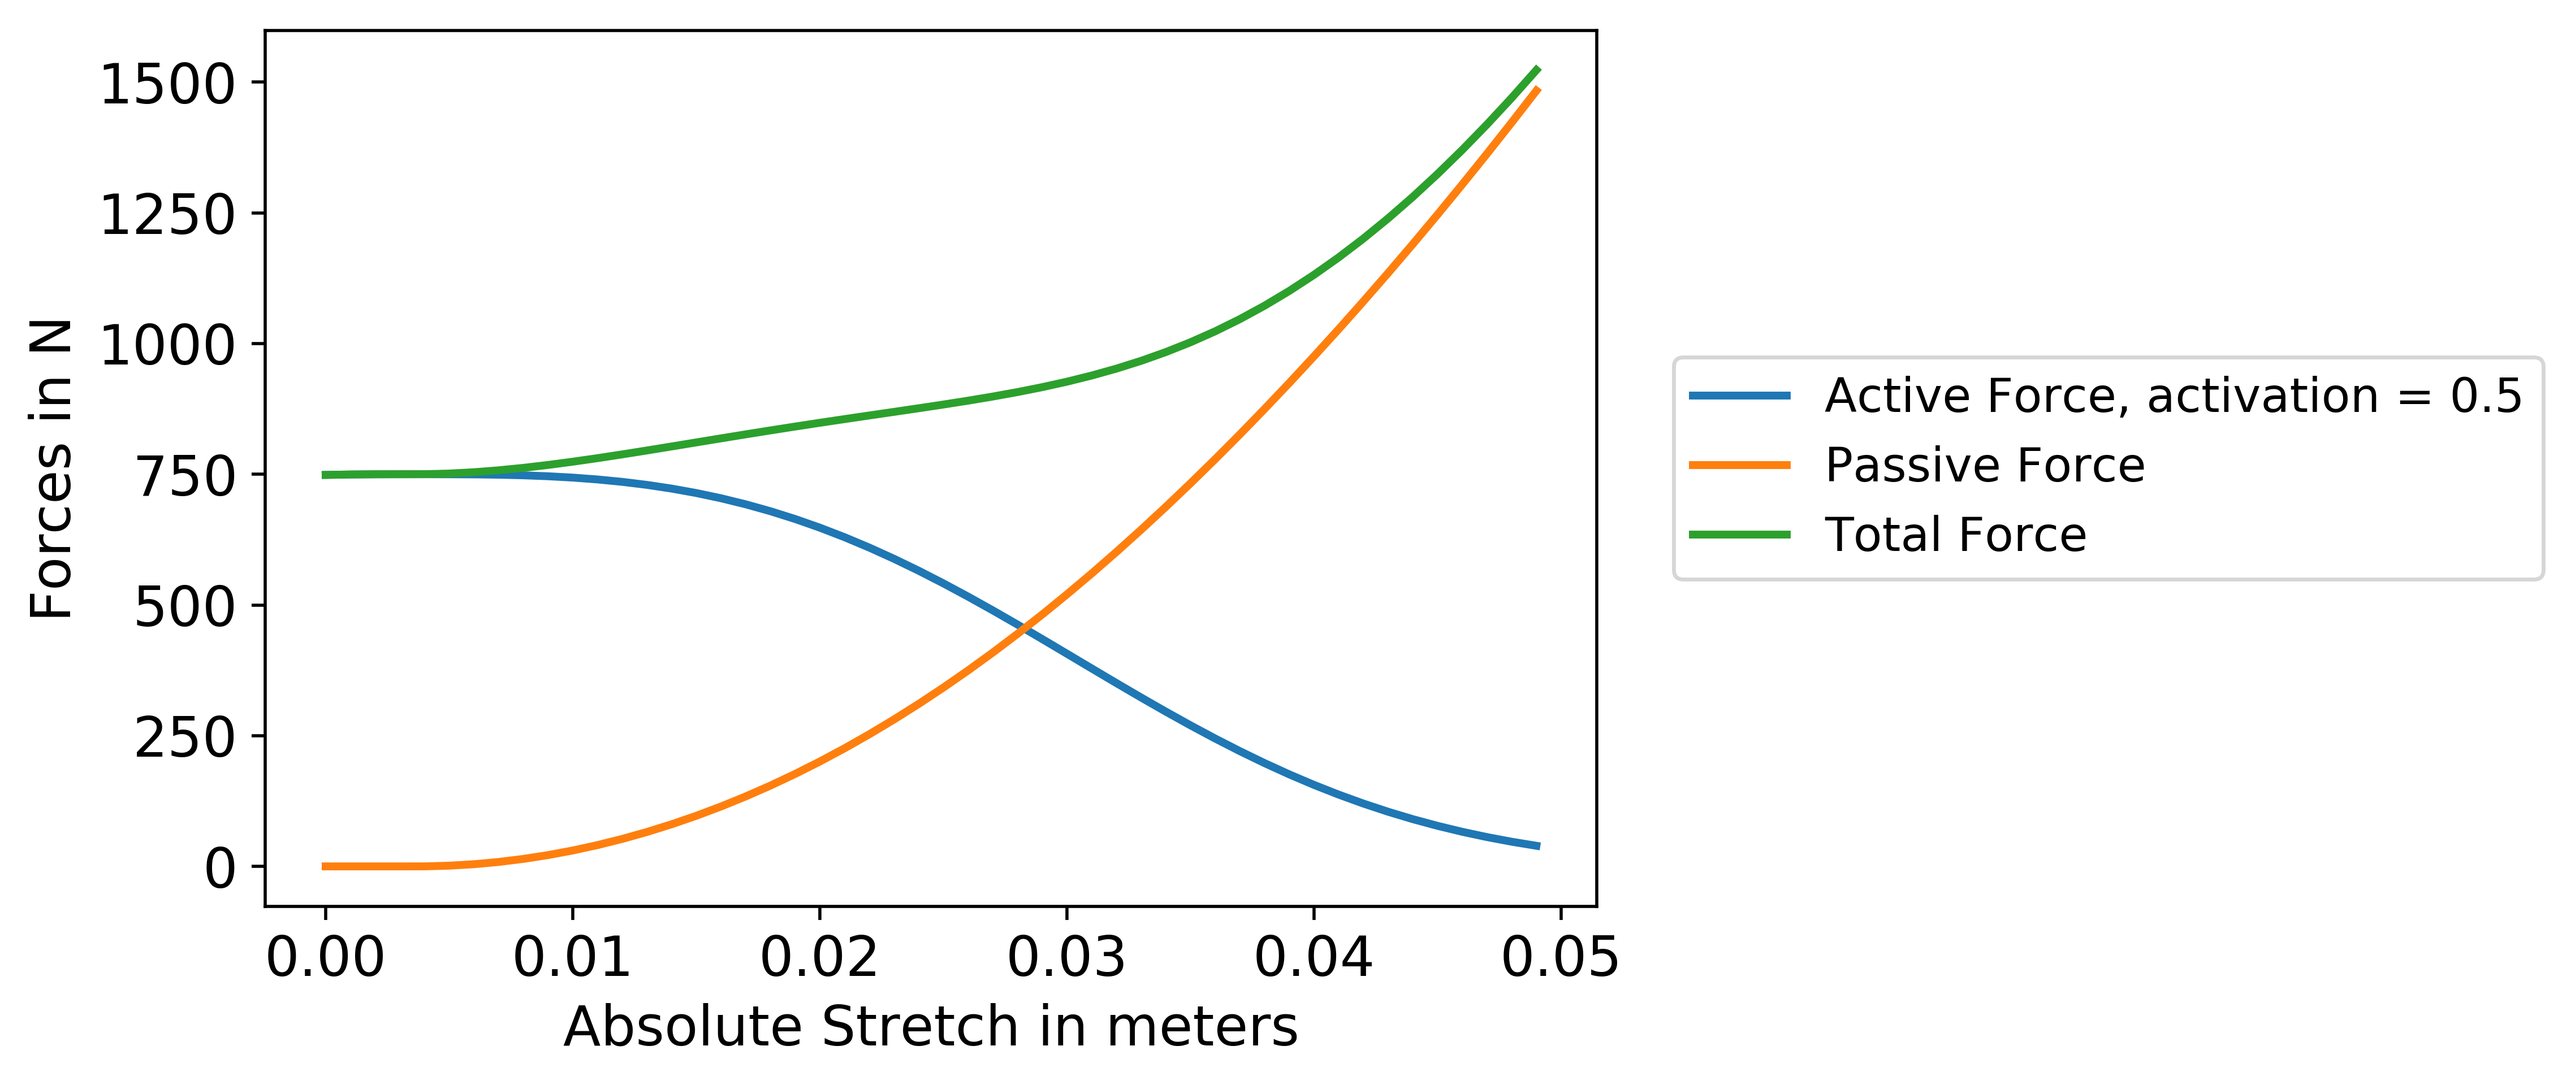
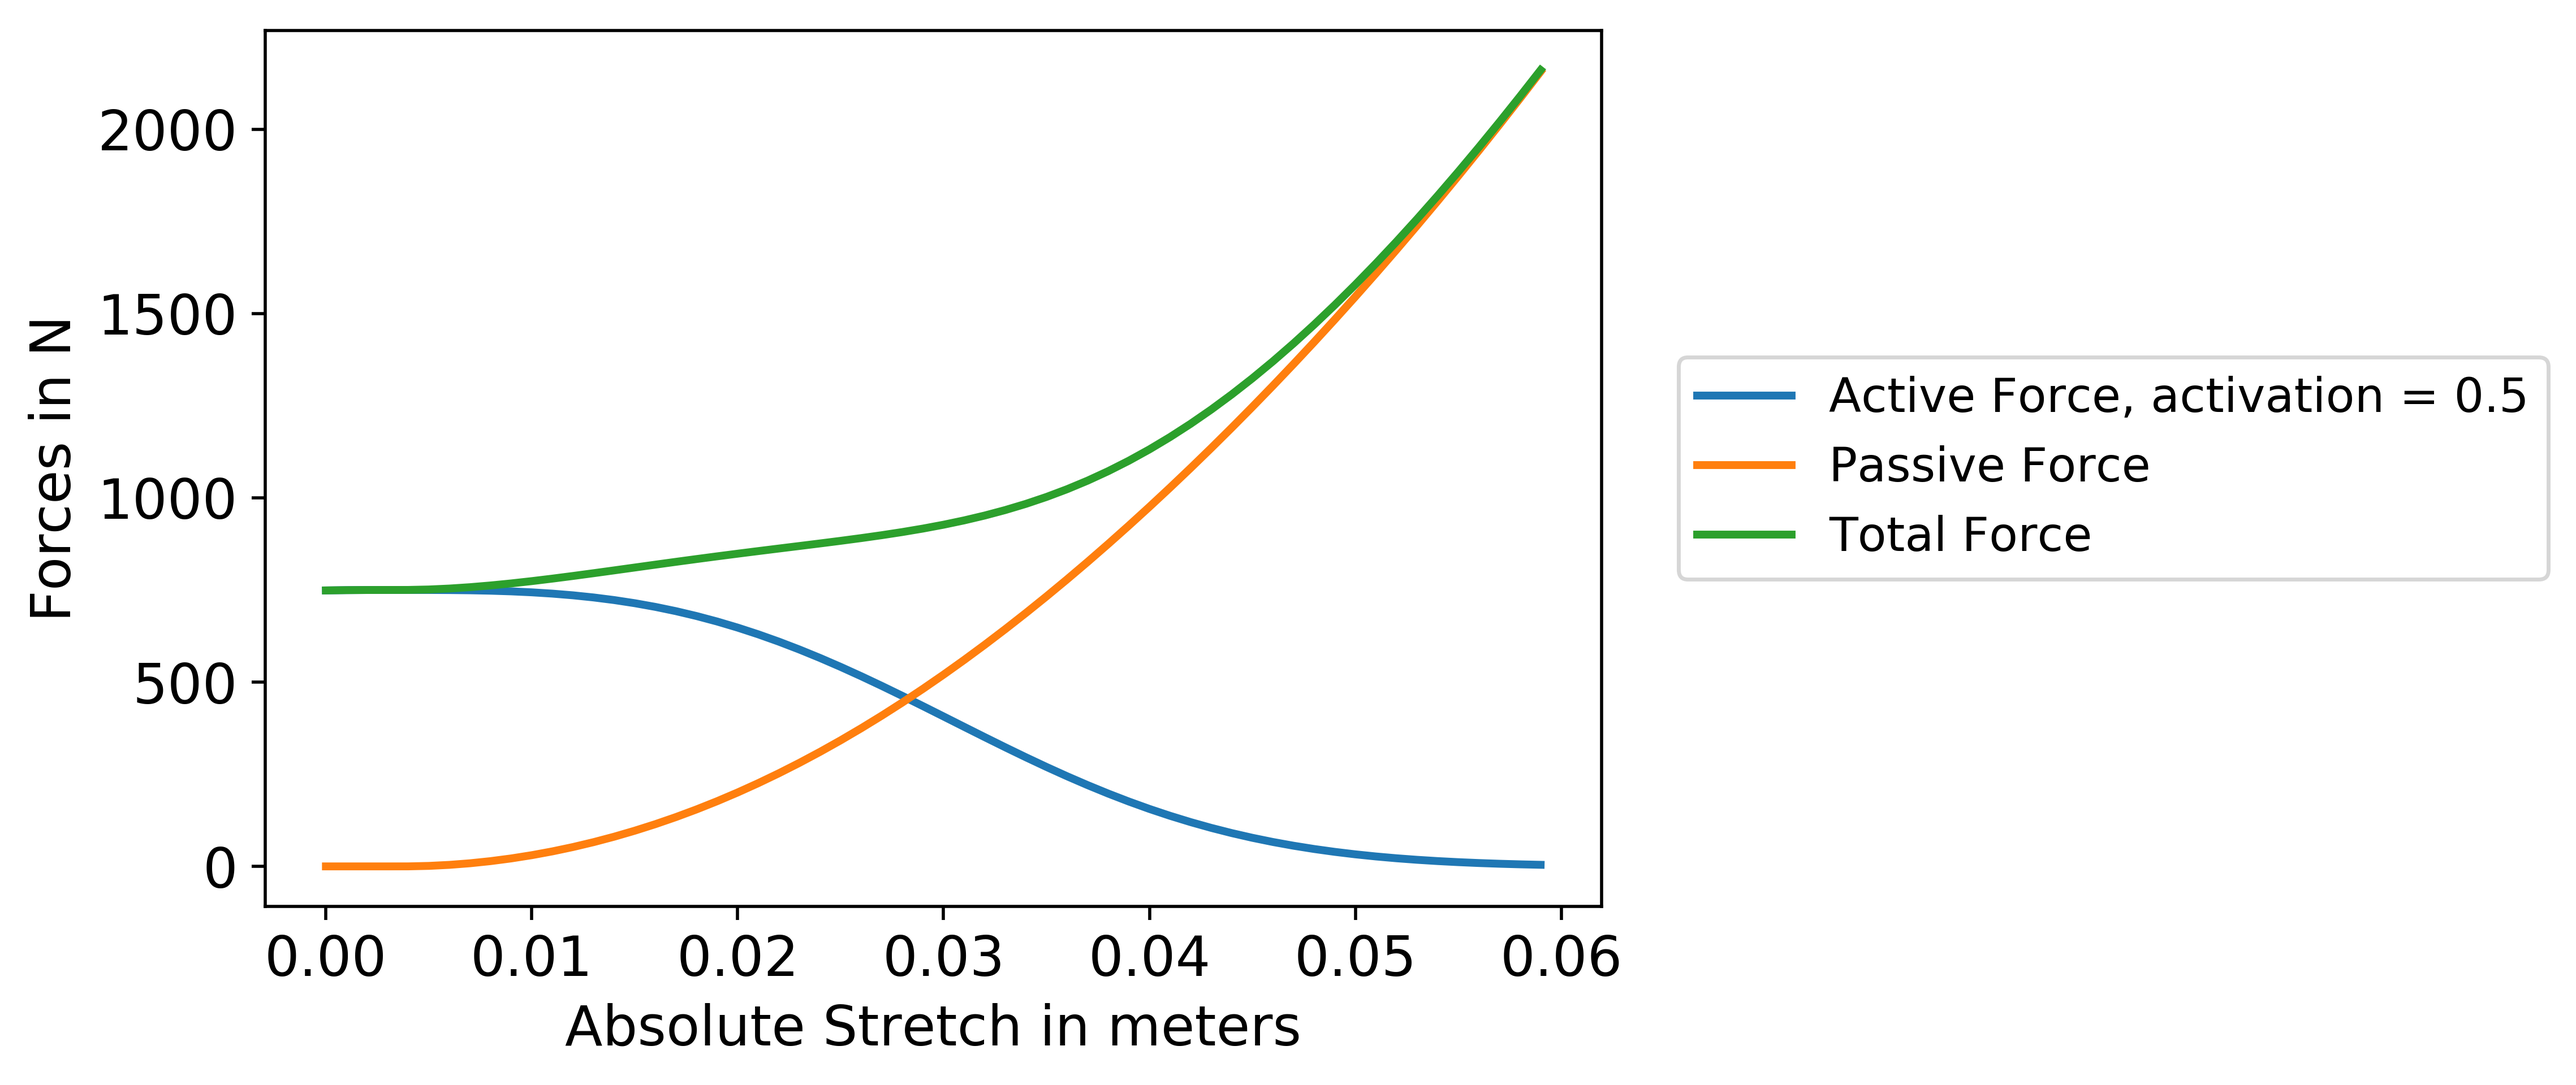
added a figure for question 2b

diff --git a/Lab4/Python/exercise2.py b/Lab4/Python/exercise2.py
@@ -243,7 +243,7 @@ def exercise2a():
         
     #Question 2a
     activation = 0.5
-    stretch=np.arange(0.0, 0.05, 0.001)      
+    stretch=np.arange(0.0, 0.06, 0.001)      
     active_force, passive_force, CE_length = isometric_contraction(muscle,stretch,activation)
     
     #plt.figure()
@@ -278,13 +278,26 @@ def exercise2a():
             activation=0
         active_force,passive_force,CE_length = isometric_contraction(muscle,stretch,activation)
         plt.plot(stretch,active_force)
-        legend_list.append('Active Force, activation = {0:.1g}'.format(activation))
+        legend_list.append('Active Force, activation = {0:.2g}'.format(activation))
     plt.plot(stretch,passive_force)
     legend_list.append('Passive Force')
     plt.legend(legend_list,bbox_to_anchor=(1.04,0.5), loc="center left")
-    plt.xlabel('Stretch')
+    plt.xlabel('Absolute Stretch in meters')
     plt.ylabel('Forces in N')
     plt.savefig('2_b.png')
+    plt.show()
+    
+    plt.figure()
+    activation_range = np.arange(1,0.1,-0.25)
+    legend_list =[]
+    for i, activation in enumerate(activation_range):
+        active_force,passive_force,CE_length = isometric_contraction(muscle,stretch,activation)
+        plt.plot(stretch,active_force/activation)
+        legend_list.append('Active Force / Activation, activation = {0:.2g}'.format(activation))
+    plt.legend(legend_list,bbox_to_anchor=(1.04,0.5), loc="center left")
+    plt.xlabel('Absolute Stretch in meters')
+    plt.ylabel('Forces in N / Activation')
+    plt.savefig('2_b_2.png')
     plt.show()
 
     #Question 2c
